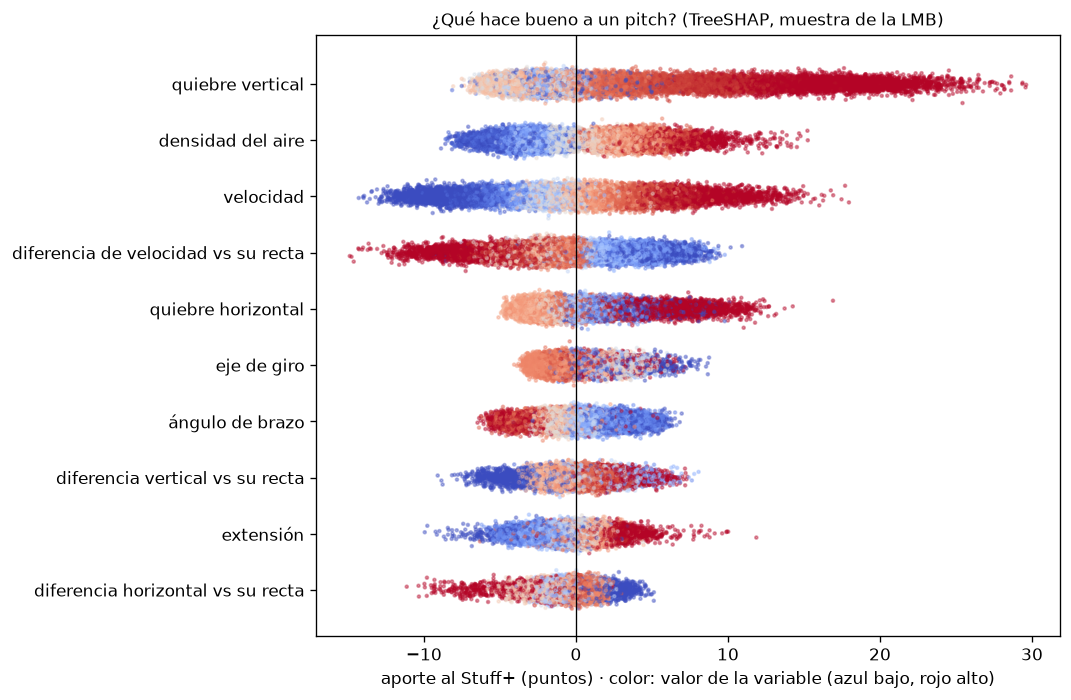
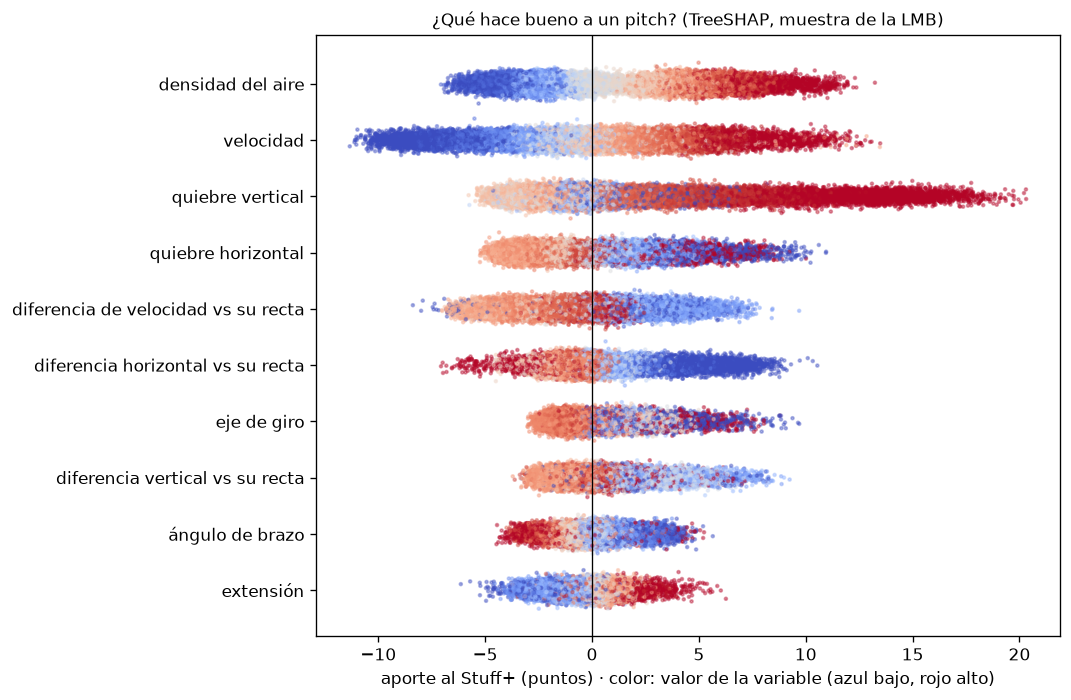
HACK-080: reports/explain regenerado con Stuff+ v2 de producción (fidelidad r 0.956 por aire, 0.891 en ΔCDMX; Δ medio -13.02); README dice qué explica SHAP

diff --git a/reports/explain/README.md b/reports/explain/README.md
@@ -1,0 +1,16 @@
+# Explicaciones SHAP de Stuff+ v2 (HACK-080)
+
+Generado por `python -m stuffplus.explain`; ninguna cifra se escribió a mano.
+
+**Qué explica SHAP.** El objetivo es el valor de Stuff+ de producción (v2 con calibración por temperatura, neutral al conteo: promedio sobre los 12 conteos con los pesos de la familia del pitch; HACK-057), en puntos de Stuff+ con la escala de nivel del mar de la liga. Ese valor no es un solo ensamble de árboles, así que lo destilamos en un regresor LightGBM (300 rondas) sobre las variables de Stuff+ v2 sin el conteo, con 180,000 filas: cada lanzamiento de la muestra en su aire, a nivel del mar y en el aire del Harp Helú. TreeSHAP es exacto sobre ese sustituto (base + Σ puntos = Stuff+ del sustituto); la tabla dice cuánto se aleja del Stuff+ v2 real en lanzamientos que no vio.
+
+| Objetivo | n | R² | r | Error medio (puntos) | p95 del error (puntos) |
+|---|---|---|---|---|---|
+| rho_1.000 | 20,000 | 0.913 | 0.956 | 2.29 | 5.91 |
+| rho_0.819 | 20,000 | 0.914 | 0.956 | 2.20 | 5.62 |
+| delta_cdmx | 20,000 | 0.794 | 0.891 | 2.60 | 6.50 |
+
+R² del sustituto en su propia muestra: 0.958. El aire se traslada con el traductor físico del modelo (el mismo de `reports/altitude_delta/`), no con Magnus ∝ ρ.
+
+Archivos: `global_importance.csv` (media de |puntos| por variable, lanzamientos en su aire), `fidelity.csv`, `examples.csv` (el lanzamiento mediano de cuatro formas, a nivel del mar y su ΔStuff+ en la CDMX, con las razones para el cuerpo técnico), `beeswarm.png` y `dependence.png`.
+Sin datos por lanzamiento: solo agregados y lanzamientos medianos por forma.
